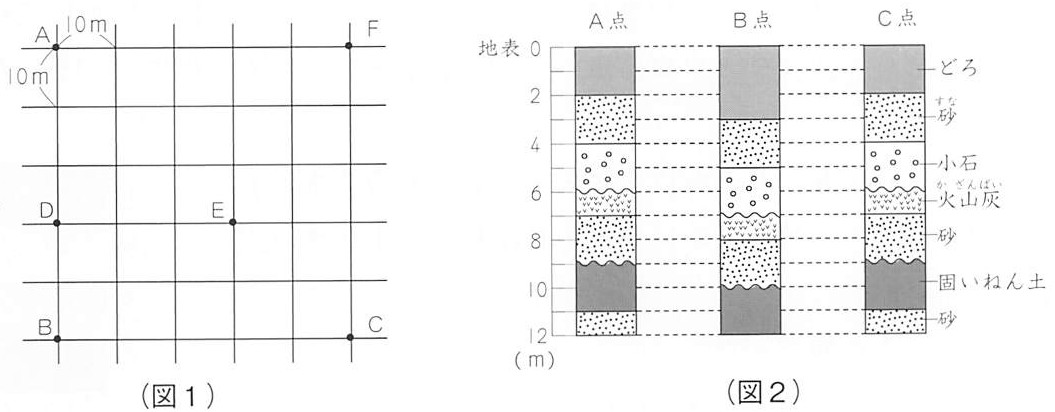
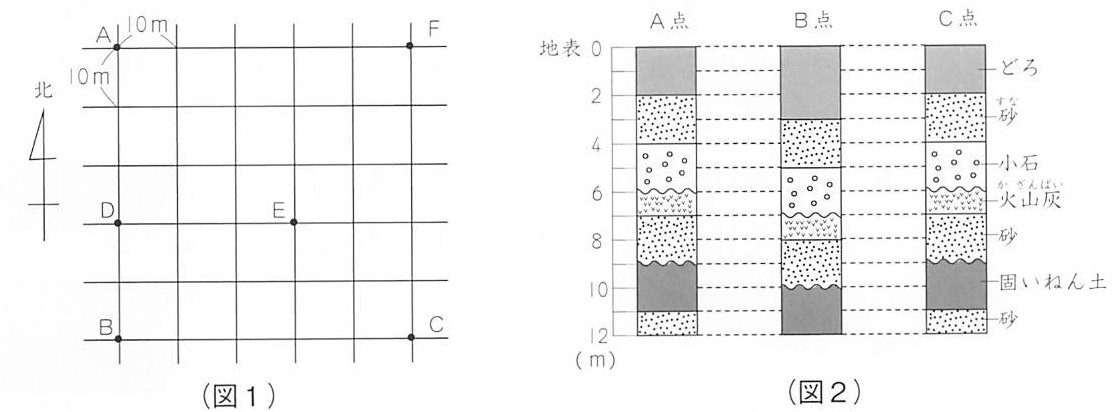
理科 第9回: 練習4の図 r9r_4 に北の向きの印を入れて切り直す
問2（地層のかたむきの向き）は方位が要るのに、最初の切り出しで（図1）の左の「北」の印が切れていた（自分の見直しで気づいた）。
左を広げて切り直した（1055x412 → 1116x412）。DAIMON_IMG_SIZES を import_daimon で取り直し、sw.js を LF にして build_sw（版 ff907938a8 → 7ddd28cff5）。

diff --git a/sw.js b/sw.js
@@ -21,9 +21,9 @@
 //   図（images/）や機内用の範囲の問題を足したら `node tools/build_sw.mjs` を回す
 //   （回し忘れは `node tools/build_sw.mjs --check` と verify_data.mjs が鳴らす）
 // ==BUILD START==
-const VERSION = "ff907938a8";
+const VERSION = "7ddd28cff5";
 const SHELL = ["index.html","data.js","daimon_data.js","manifest.webmanifest"];
-const IMAGES = {"img_01.jpg":"c509d30588","img_02.jpg":"431d673976","img_03.jpg":"20551c26c2","img_04.jpg":"babec171a8","img_05.jpg":"217a902f82","img_06.jpg":"ee339c13be","img_07.jpg":"c1d5fc9bfa","img_08.jpg":"7dc1fc69c9","img_09.jpg":"122f4085cd","img_10.jpg":"79aa27232b","img_11.jpg":"c424068b7d","img_12.jpg":"28f630ce07","img_13.jpg":"3b0f378e3c","img_14.jpg":"fa1c135386","img_15.jpg":"9c58e3530d","img_16.png":"e8243de958","img_17.png":"3c926ffcaf","img_18.png":"d12e058e34","img_19.png":"7b6ca9ce21","img_20.png":"406e674c4e","img_21.png":"0318803303","img_22.png":"6256724412","img_23.jpg":"d2b41ad9fd","img_24.jpg":"9fb82e77d5","img_25.jpg":"e331b1db97","kai1_01.jpg":"9ad30dbb41","kai1_02.jpg":"48cc954516","kai1_03.jpg":"f77c4689f9","kai1_04.jpg":"7be130efb7","kai1_05.jpg":"581087bbec","kai1_06.jpg":"605bb3fc6e","kai1_07.jpg":"443e9c5bb5","kai1_08.jpg":"f933cc3d35","kai1_09.jpg":"61d828179a","kai1_10.jpg":"aeb6fc6a25","kai1_11.jpg":"524c68147c","kai1_12.jpg":"0280a07787","kai1_13.jpg":"347749eafe","kai1_14.jpg":"4189b5e927","kai1_15.jpg":"1de589f164","kai1_17.jpg":"edb1f824fb","kai1_18.jpg":"02deb5baaf","kai1_20.jpg":"78bee7824e","kai1_21.jpg":"b72d254adb","kai1_22.jpg":"9288973c76","kai1_23.jpg":"724d436a13","kai1_24.jpg":"0280a07787","kai1_25.jpg":"8cb1eab9b2","kai1_26.jpg":"e6c693e547","kai1_27.jpg":"4351ddf4cd","kai1_28.jpg":"a94cdbe09e","kai1_29.jpg":"4ee5aed91d","kai1_30.jpg":"9f0cbd69a4","kai1_hikaku.jpg":"1d1a966776","kai2_01.jpg":"036fd88ce8","kai2_02.jpg":"0c18e7d26b","kai2_03.jpg":"18b9306794","kai2_04.jpg":"b8cee663c1","kai2_05.jpg":"9c0f05febe","kai3_01.jpg":"f0c6217e6d","kai3_02.jpg":"3afd2d1f3c","kai3_03.jpg":"5f4dcd0bee","kai3_04.jpg":"001a13ac17","kai3_05.jpg":"7d2c6c91ac","kai3_06.jpg":"c291d6c748","kai3_07.jpg":"84488aff29","kai4_01.jpg":"098f572034","kai5_01.jpg":"3916e558d3","kai5_02.jpg":"9bffc157fb","kai6_01.jpg":"21fc60dbd6","kai6_02.jpg":"99b07705de","kai6_03.jpg":"aabd3bc644","kai6_04.jpg":"aa04ce866e","kai6_05.jpg":"4297d7df87","kai6_06.jpg":"f8a264470b","kai6_07.jpg":"5d19b55330","kai6_08.jpg":"bdda62e4dd","kai6_09.jpg":"e6486ab1d9","kai7_01.jpg":"a289535a32","kai7_02.jpg":"4691df9fea","kai7_03.jpg":"3f76254c1d","kai7_04.jpg":"e497280d98","kai7_05.jpg":"96fdbde7c4","kai7_06.jpg":"c9bfae9ba3","kai7_07.jpg":"e18839816b","kai7_08.jpg":"58e8746c28","kai7_09.jpg":"e825ba55b9","kai8_01.jpg":"21a720c24f","kai8_02.jpg":"2b62307919","kai8_03.jpg":"6a964ed5d7","kai8_04.jpg":"58ec3bec61","kai8_05.jpg":"008e2ea758","kai8_06.jpg":"df368339d4","kai8_07.jpg":"eda4c5b548","kai8_08.jpg":"a6c80cc013","kai8_09.jpg":"10e896648d","kai8_11.jpg":"92b8606831","kai8_13.jpg":"c40d019dce","kai8_14.jpg":"343789076f","kaki_r1_01.jpg":"40efaae693","kaki_r1_02.jpg":"c7c281cf30","kaki_r1_03.jpg":"166ecbf482","kaki_r1_04.jpg":"2669f29305","kaki_r1_05.jpg":"039c4f2ec1","kaki_r1_06.jpg":"c7da6a228f","kaki_r1_07.jpg":"c6ec89a8a8","kaki_r1_08.jpg":"9315802c0c","kaki_r1_map01.jpg":"6c41c6b2ad","kaki_r1_map02.jpg":"ecfac38b14","kaki_r1_map03.jpg":"32bdefa779","kaki_r1_map04.jpg":"8961c1f671","kaki_r1_map05.jpg":"e933b41316","kaki_r1_map06.jpg":"8b0fce1e24","kaki_r1_map07.jpg":"36ea857422","kaki_r1_map08.jpg":"1fb4038761","kaki_r1_map09.jpg":"c8ff2fbc1f","kaki_r1_map10.jpg":"efb44b01e1","kaki_r1_map11.jpg":"11ca22ec54","kaki_r1_map12.jpg":"5cd721c8c7","kaki_r1_map13.jpg":"c6bd4907a1","kaki_r1_map14.jpg":"532a90db1a","kaki_r1_map15.jpg":"1d3a34ebcb","kaki_r2_graph01.jpg":"32d57ce772","kaki_r2_graph02.jpg":"ee3d8ef3f4","kaki_r2_graph03.jpg":"780ea73f9f","kaki_r2_graph04.jpg":"6db370ff43","kaki_r2_graph06.jpg":"4205a357b8","kaki_r2_graph07.jpg":"24abb6e920","kaki_r2_map01.jpg":"e76da5df3c","kaki_r2_map05.jpg":"77871fe1cd","kaki_r2_map07.jpg":"edde3ccd6a","kaki_r2_map08.jpg":"f6b4fd1876","kaki_r2_map09.jpg":"571c10e75a","kaki_r2_map10.jpg":"639fce96a0","kaki_r2_map11.jpg":"f797085a00","kaki_r2_map12.jpg":"e6c57da6a6","kaki_r2_map13.jpg":"a677984d27","kaki_r2_map14.jpg":"453dffc6f7","kaki_r2_map15.jpg":"5584bcee3b","kaki_r2_map16.jpg":"b15ab6d389","kaki_r2_map17.jpg":"5bd38fb762","kaki_r2_map18.jpg":"7d2d88579e","kaki_r2_map19.jpg":"275eabe7ad","kaki_r3_graph01.jpg":"1cd4a32624","kaki_r3_house01.jpg":"b24e489bb0","kaki_r3_map01.jpg":"b5df31df5b","kaki_r3_map02.jpg":"9a95515cd3","kaki_r3_map03.jpg":"8219e31218","kaki_r3_map04.jpg":"d06babe5d0","kaki_r3_map05.jpg":"8d72897ae9","kaki_r3_map06.jpg":"7d5f78fc0a","kaki_r3_map07.jpg":"054c557c2e","kaki_r3_map08.jpg":"5106a9de1f","kaki_r3_map09.jpg":"242f1d237e","kaki_r3_map10.jpg":"fdddf5a535","kaki_r3_map11.jpg":"3b8de18bbf","kaki_r3_map12.jpg":"f3bd73ae35","kaki_r3_map13.jpg":"4d2bcf3271","kaki_r3_map14.jpg":"9502878c46","kaki_r3_map15.jpg":"24ae7e39c1","kaki_r3_map16.jpg":"7702af9f69","kaki_r3_map17.jpg":"c982cc30a8","kaki_r3_map18.jpg":"42988dc4cc","kaki_r3_map19.jpg":"b15c3f5f38","kaki_r3_map20.jpg":"0973448cc4","kaki_r3_map21.jpg":"c90eb11e41","kaki_r3_map22.jpg":"f89a00c568","kaki_r3_map23.jpg":"ce5b967d9c","kaki_r3_map24.jpg":"30c90127f2","kaki_r3_map25.jpg":"f7b333f624","kaki_r3_map26.jpg":"9b79fa55d6","kaki_r3_map27.jpg":"1372731975","kaki_r3_map28.jpg":"f27a725668","kaki_r3_map29.jpg":"f2f731e618","kaki_r3_map30.jpg":"f3cf418799","kaki_r3_map31.jpg":"92342ccf13","kaki_r3_map32.jpg":"aca69cb237","kaki_r3_map33.jpg":"a067100f3f","kaki_r3_map34.jpg":"c09c0eae4c","kaki_r3_map35.jpg":"338b7b8b69","kaki_r3_map36.jpg":"50726b5665","kaki_r3_map37.jpg":"adb3ff0179","kaki_r3_shapes.jpg":"b7ef8fe7b0","kaki_r4_graph01.jpg":"c01de42527","kaki_r4_graph02.jpg":"4df4d97dbb","kaki_r4_map01.jpg":"79964d929e","kaki_r4_map02.jpg":"214032e3fb","kaki_r4_map03.jpg":"d3480426f7","kaki_r4_map04.jpg":"cd15a33476","kaki_r4_map05.jpg":"b9785a5761","kaki_r4_map06.jpg":"0de4ecf793","kaki_r4_map07.jpg":"111c204b6c","kaki_r4_map08.jpg":"a9cd2b7609","kaki_r4_map09.jpg":"53c7a9f0f6","kaki_r4_map10.jpg":"1446aba131","kaki_r4_map11.jpg":"014d34cbfb","kaki_r4_map12.jpg":"1ffc5e7cad","kaki_r4_map13.jpg":"765e7355cb","kaki_r4_map14.jpg":"14832f0c5b","kaki_r4_map15.jpg":"eb779a8f40","kaki_r4_map16.jpg":"efb2dc0c7d","kaki_r4_map17.jpg":"f5d991a0a9","kaki_r4_map18.jpg":"944dce04f2","kaki_r4_map19.jpg":"3573613dda","kaki_r4_map20.jpg":"1051878e40","kaki_r4_map21.jpg":"09de9cc945","kaki_r4_map22.jpg":"7cd6f39783","kaki_r4_map23.jpg":"54f7ae304f","kaki_r4_map24.jpg":"90e43d0b03","kaki_r4_map25.jpg":"25d2998845","kaki_r4_map26.jpg":"b410216caa","kaki_r4_map27.jpg":"01d2acc713","kaki_r4_map28.jpg":"72394df34f","kaki_r4_map29.jpg":"9e710c5386","kaki_r4_map30.jpg":"96dcc908eb","kaki_r4_map31.jpg":"b4b23e5056","kaki_r4_map32.jpg":"c6e141f588","kaki_r4_map33.jpg":"5637d59ea5","kaki_r4_map34.jpg":"da2b9a701d","kaki_r4_map35.jpg":"b38a26a1f9","kaki_r4_map36.jpg":"654a87c9ca","kaki_r4_map37.jpg":"abf9495c0e","kaki_r4_map38.jpg":"d9bfd21599","kaki_r4_map39.jpg":"adc7d0233c","kaki_r4_map40.jpg":"e48b5684b9","kaki_r4_map41.jpg":"a7c900c913","kaki_r4_shapes01.jpg":"fecd868b23","kaki_r4_shapes02.jpg":"d55b458da9","kaki_r5_graph02.jpg":"c66566f25f","kaki_r5_graph05.jpg":"9e47ade2ee","kaki_r5_map01.jpg":"c38804bbfe","kaki_r5_map02.jpg":"7eac88cd41","kaki_r5_map03.jpg":"6cb4d28531","kaki_r5_map04.jpg":"1ce12d046c","kaki_r5_map05.jpg":"ed7badf0e7","kaki_r5_map06.jpg":"cb26648bb7","kaki_r5_map07.jpg":"71e0a7471a","kaki_r5_map08.jpg":"cb201dc1ad","kaki_r5_map09.jpg":"5492cacbbd","kaki_r5_map10.jpg":"55d2435544","kaki_r5_map11.jpg":"343f6ce76d","kaki_r5_map12.jpg":"b74276a461","kaki_r5_map13.jpg":"d662f67d0a","kaki_r5_map14.jpg":"9c25e54a2c","kaki_r5_map15.jpg":"4376961dbe","kaki_r5_map16.jpg":"a398327f58","kaki_r5_map17.jpg":"8f1e23de6f","kaki_r5_map18.jpg":"d063497018","kaki_r5_map19.jpg":"9e149162e9","kaki_r5_map20.jpg":"2c88d5bd5a","kaki_r5_map21.jpg":"1a580e7a32","kaki_r5_map22.jpg":"398b418584","kaki_r5_map23.jpg":"4d62801b55","kaki_r5_map24.jpg":"fe4a91e391","kaki_r5_map25.jpg":"2b1faef03a","kaki_r5_map26.jpg":"caa8517e16","kaki_r5_map27.jpg":"3fc1dacd7c","kaki_r5_map28.jpg":"5b003a47a1","kaki_r5_map29.jpg":"4c177786d9","kaki_r5_map30.jpg":"8771a4c770","kaki_r5_map31.jpg":"8b3232b824","kaki_r5_map32.jpg":"3edcd448a1","kaki_r5_shapes02.jpg":"5df2c79f77","kaki_r5_shapes03.jpg":"aac1488fcf","kaki_r5_table01.jpg":"19533bd2f2","kaki_r5_table02.jpg":"d8019480f5","kaki_r6_graph01.jpg":"96bb4577a7","kaki_r6_map01.jpg":"d9934df143","kaki_r6_map02.jpg":"fe5bd5dbbe","kaki_r6_map03.jpg":"e1e31c6154","kaki_r6_map04.jpg":"b66fa8a761","kaki_r6_map05.jpg":"e32e50186e","kaki_r6_map06.jpg":"edd75b804c","kaki_r6_map07.jpg":"b77ba31786","kaki_r6_map08.jpg":"36b54ed3c8","kaki_r6_map09.jpg":"6f08ed9b1a","kaki_r6_map10.jpg":"5dcc7b61af","kaki_r6_map11.jpg":"8930f6ed5a","kaki_r6_map12.jpg":"b9a01555a7","kaki_r6_map13.jpg":"ae954fc0d3","kaki_r6_map14.jpg":"c3d0ada944","kaki_r6_map15.jpg":"33c3dd2588","kaki_r6_map16.jpg":"f143bac952","kaki_r6_map17.jpg":"8e4028b2f9","kaki_r6_map18.jpg":"e27c8cc933","kaki_r6_map19.jpg":"9675f32dd9","kaki_r6_map20.jpg":"73a10cd200","kaki_r6_map21.jpg":"d4424ac8cf","kaki_r6_map22.jpg":"2274caa4a2","kaki_r6_map23.jpg":"129b3c20cf","kaki_r6_map24.jpg":"334ddece52","kaki_r6_map25.jpg":"6c84324de8","kaki_r6_map26.jpg":"4f02b0d10a","kaki_r6_map27.jpg":"5435b9a073","kaki_r6_map28.jpg":"4f420842a2","kaki_r6_map29.jpg":"43c72ca771","kaki_r6_map30.jpg":"ba92be3494","kaki_r6_map31.jpg":"5fb2f51387","kaki_r6_map32.jpg":"50a9be50e2","kaki_r6_map33.jpg":"ee52bc0e68","kaki_r6_map34.jpg":"c306aca085","kaki_r6_map35.jpg":"82ba643838","kaki_r6_map36.jpg":"f0b2024222","kaki_r6_map37.jpg":"578787fb55","kaki_r6_map38.jpg":"a867948ec2","kaki_r6_map39.jpg":"36ddd230df","kaki_r6_map40.jpg":"b451ce2553","kaki_r6_map41.jpg":"e945ff9e3b","kaki_r6_map42.jpg":"6ead747b59","kaki_r6_map43.jpg":"0c4fa9452c","kaki_r6_map44.jpg":"b6ba24cf61","kaki_r6_map45.jpg":"60c76ded4f","kaki_r6_map46.jpg":"c997423a88","kaki_r6_map47.jpg":"03668f2ff1","kaki_r6_map48.jpg":"b976807139","kaki_r6_map49.jpg":"3bede7dac8","kaki_r6_table01.jpg":"a8958813c8","kaki_r7_graph02.jpg":"1f62812a09","kaki_r7_map01.jpg":"99e641197f","kaki_r7_map02.jpg":"9bf3a0d803","kaki_r7_map03.jpg":"f797eda8eb","kaki_r7_map04.jpg":"decaa1c29a","kaki_r7_map05.jpg":"8c65db6a92","kaki_r7_map06.jpg":"ac9efa31ab","kaki_r7_map07.jpg":"8c1d72ca7c","kaki_r7_map08.jpg":"433be63b7b","kaki_r7_map09.jpg":"54db8c57e6","kaki_r7_map10.jpg":"71c659ba69","kaki_r7_map11.jpg":"b21192fde1","kaki_r7_map12.jpg":"73c261b366","kaki_r7_map13.jpg":"65f35e8544","kaki_r7_map14.jpg":"7177100d76","kaki_r7_map15.jpg":"133fd7c751","kaki_r7_map16.jpg":"3eb4b1ab57","kaki_r7_map17.jpg":"c7e46c62c8","kaki_r7_map18.jpg":"595fa5f1d3","kaki_r7_map19.jpg":"49e0ea66d2","kaki_r7_map20.jpg":"030f5b32b7","kaki_r7_map21.jpg":"05808524f1","kaki_r7_map22.jpg":"bd20c38480","kaki_r7_map23.jpg":"ce6fc43df4","kaki_r7_map24.jpg":"b2753580e2","kaki_r7_map25.jpg":"78bd7107e6","kaki_r7_map26.jpg":"34d4f7151a","kaki_r7_map27.jpg":"b21d7f5dd5","kaki_r7_map28.jpg":"476473eec3","kaki_r7_map29.jpg":"97c7ee7f61","kaki_r7_map30.jpg":"e0005dcc88","kaki_r7_map31.jpg":"204f2de615","kaki_r7_map32.jpg":"f006ba7103","kaki_r7_map33.jpg":"da58f9cff4","kaki_r7_map34.jpg":"1f584b7d6a","kaki_r7_map35.jpg":"11e1004bd8","kaki_r7_map36.jpg":"fd137ff9b8","kaki_r7_table01.jpg":"531ede38c5","kaki_r7_table02.jpg":"0e77123fca","kaki_r8_map01.jpg":"a57f501a98","kaki_r8_map02.jpg":"b06073e9aa","kaki_r8_map03.jpg":"5c8daedeab","kaki_r8_map04.jpg":"10a7bdd03d","kaki_r8_map05.jpg":"4fb5437d44","kaki_r8_map06.jpg":"76a72a9043","kaki_r8_map07.jpg":"77cc3b1bbc","kaki_r8_map08.jpg":"5c8d0a406b","kaki_r8_map09.jpg":"4ab8d8bf9c","kaki_r8_map10.jpg":"005ce58bdc","kaki_r8_map11.jpg":"8c83802060","kaki_r8_map12.jpg":"a5781f5932","kaki_r8_map13.jpg":"f3dcb0128c","kaki_r8_map14.jpg":"40a712cf1f","kaki_r8_map15.jpg":"79a9d6288f","kaki_r8_map16.jpg":"104361951c","kaki_r8_map17.jpg":"e43f6d31b7","kaki_r8_map18.jpg":"c67dd6cb83","kaki_r8_map19.jpg":"48159eea09","kaki_r8_map20.jpg":"023d3f8a9d","kaki_r8_map21.jpg":"03f3be5685","kaki_r8_map22.jpg":"77fe732dea","kaki_r8_map23.jpg":"e005abbe6c","kaki_r8_map24.jpg":"b25880e6c5","kaki_r8_map25.jpg":"7e313cd421","kaki_r8_map26.jpg":"def354dfdd","kaki_r8_map27.jpg":"449858def5","kaki_r8_map28.jpg":"bb9f08441a","kaki_r8_map29.jpg":"472c09aa53","kaki_r8_map30.jpg":"35be560792","kaki_r8_map31.jpg":"6cbd996f24","kaki_r8_map32.jpg":"60af73c7f5","kaki_r8_map33.jpg":"b194bc8ead","kaki_r8_map34.jpg":"cbc7c209db","kaki_r8_map35.jpg":"1de93906c5","kaki_r8_map36.jpg":"6ba8cf6d3b","kaki_r8_map37.jpg":"07aeb406af","kaki_r8_map38.jpg":"bee7eebc38","kaki_r8_map39.jpg":"45f22df6b1","kaki_r8_map40.jpg":"9e3f4196d2","kaki_r8_map41.jpg":"f1ce465720","kaki_r8_map42.jpg":"0551ccd81c","kaki_r8_map43.jpg":"82000f70d1","kaki_r8_map44.jpg":"2b88f0190b","kaki_r8_map45.jpg":"35ee95a764","kaki_r8_map46.jpg":"dd721e219c","kaki_r8_map47.jpg":"a465f218c2","kaki_r8_map48.jpg":"dcdc8a4d37","kaki_r8_map49.jpg":"388b475050","kaki_r8_map50.jpg":"4153c12b69","kaki_r8_map51.jpg":"aa826973da","kaki_r8_map52.jpg":"40fa851678","kaki_r8_map53.jpg":"181212ead1","kaki_r8_map54.jpg":"7c5a4a90c3","kaki_r8_map55.jpg":"488f98a461","kaki_r8_map56.jpg":"95df737037","kaki_r8_map57.jpg":"92d00cfd17","kaki_r8_map58.jpg":"6e49210e3e","r1_01.jpg":"4a6380da93","r1_02.jpg":"da23c3400c","r1_03.jpg":"7eddc7aa20","r1_04.jpg":"dbd948bc4f","r1_05.jpg":"435f86d82f","r1_06.jpg":"f09fdec1b9","r1_shinrin.jpg":"a750740d7f","r2_01.jpg":"3b40218424","r2_02.jpg":"387da36abc","r2_03.jpg":"e1febb3ca4","r2_04.jpg":"95132e77ec","r2_05.jpg":"0b08a836a5","r2_06.jpg":"0213ccc6d0","r2_07.jpg":"87baf0940a","r2_08.jpg":"07e455253d","r2_09.jpg":"42792edd75","r2_10.jpg":"42792edd75","r2_11.jpg":"42792edd75","r2_12.jpg":"4f2c45c956","r2_13.jpg":"4f2c45c956","r2_14.jpg":"4f2c45c956","r2_15.jpg":"52e855ee49","r2_16.jpg":"52e855ee49","r2_17.jpg":"52e855ee49","r2_18.jpg":"440bf4b31f","r2_19.jpg":"440bf4b31f","r2_20.jpg":"535707c4eb","r2_21.jpg":"535707c4eb","r2_22.jpg":"535707c4eb","r2_23.jpg":"535707c4eb","r2_24.jpg":"535707c4eb","r2_25.jpg":"535707c4eb","r2_26.jpg":"2dc94c771d","r2_27.jpg":"2dc94c771d","r2_28.jpg":"2dc94c771d","r2_29.jpg":"2dc94c771d","r2_30.jpg":"a6433ef6c0","r2_31.jpg":"a6433ef6c0","r2_32.jpg":"a6433ef6c0","r2_33.jpg":"a6433ef6c0","r2_34.jpg":"8d16d4ac64","r2_35.jpg":"8d16d4ac64","r2_36.jpg":"8d16d4ac64","r2_37.jpg":"8d16d4ac64","r2_38.jpg":"91f1c5bca5","r2_39.jpg":"b60adbd1c3","r2_40.jpg":"c82ed30fab","r3_chuuwa.jpg":"803f88484e","r3_seishitsu.jpg":"6584946c1b","r3_shijiyaku.jpg":"9b319c7d88","r3_yomi21.jpg":"b2ad009491","r3_yomi24.jpg":"d6fc3d99b8","r3_yomi25.jpg":"aa0903b0ab","r3_yomi27.jpg":"8dc3d4a3a9","r3_yomi36.jpg":"595c040e9f","r3k_1a.jpg":"55441f3d9f","r3k_1b.jpg":"1356de67e3","r3k_2.jpg":"3105353be2","r3k_3.jpg":"4f041ffa22","r3r_3.jpg":"10cadd705b","r3w_2.jpg":"282e87ba1b","r3w_3.jpg":"b2770557c1","r3y_5ans.jpg":"e4645e89b4","r4_01.jpg":"393de5eca5","r4_02.jpg":"40d9b4e0f2","r4_03.jpg":"5b2d21540e","r4_04.jpg":"947f21bcb2","r4k_1.jpg":"90d74e5d01","r4k_2.jpg":"cc3c2e4caa","r4r_1.jpg":"4798d0b4ce","r4r_2.jpg":"7f98882f2f","r4r_3.jpg":"583c14ef86","r4r_4.jpg":"d02ddf1cd0","r4w_1a.jpg":"b6bf2c20dd","r4w_1b.jpg":"64b2ae8256","r4w_2.jpg":"ba6aa9c69c","r4w_3.jpg":"b838901256","r5u13_01.jpg":"8a69c689ae","r5u13_02.jpg":"e52d50ee0d","r5u13_03.jpg":"8b6aae14a3","r5u13_04.jpg":"c0812ddc66","r5u13_05.jpg":"a2ffcc22da","r5u13_06.jpg":"41b8282bc6","r5u13_07.jpg":"a42085c269","r5u13_08.jpg":"7ff9dfa5c5","r6_01.jpg":"32ff3016d8","r6_02.jpg":"3c73527dd8","r6_03.jpg":"a444385107","r6_04.jpg":"a4dfdac612","r6_05.jpg":"b5f6b9f6a3","r6_06.jpg":"1a7c249e0f","r6_07.jpg":"389ba3d7b8","r6_08.jpg":"54e693e4b7","r6_09.jpg":"b02381d63b","r6_10.jpg":"da46bca31a","r6_11.jpg":"9259db1350","r6_12.jpg":"14c449020d","r6_13.jpg":"0577c1be67","r6_14.jpg":"79530fa540","r6_15.jpg":"dcf990eb89","r6_16.jpg":"d5a37d0bce","r6_17.jpg":"cbeac19169","r6k_1.jpg":"0c5793f6c1","r6k_2.jpg":"7cc5f04102","r6k_2b.jpg":"19f68c1767","r6k_3.jpg":"6b57f40878","r6k_4.jpg":"6eba853e20","r6p_01.jpg":"e16dfbac90","r6p_02.jpg":"9a335bea93","r6p_03.jpg":"9ed60c3d70","r6p_04.jpg":"ae5944a085","r6p_05.jpg":"b6a1836a78","r6p_06.jpg":"acb7478bd6","r6p_07.jpg":"a4c8c8dd0d","r6r_1.jpg":"4606457fc7","r6r_1b.jpg":"dafd16e516","r6r_2.jpg":"73bd9e9cc4","r6r_2b.jpg":"ce235b797a","r6r_2c.jpg":"3638d4d780","r6r_3.jpg":"8bc4c35ba9","r6r_3ans.jpg":"c729ca8dc1","r6r_4.jpg":"1a97fe9f9a","r6r_4b.jpg":"e1f0d07003","r6r_4c.jpg":"606d8620bb","r6r_5.jpg":"83747b014d","r7_01.jpg":"466ea22251","r7_02.jpg":"84ef6e008b","r7_03.jpg":"3583685d2a","r7_04.jpg":"a49dfe47bb","r7_05.jpg":"8357813f22","r7_06.jpg":"1e30160b9f","r7_07.jpg":"fec15a5ddd","r7_08.jpg":"5f8a1be38a","r7_10.jpg":"01bd20bac0","r7k_2.jpg":"c3e5b1fdc4","r7k_2b.jpg":"b4937893d8","r7k_3.jpg":"dfb199cdc1","r7k_4.jpg":"46545faf0d","r7r_1.jpg":"6de7fd0a8e","r7r_1b.jpg":"ed991d90d3","r7r_1c.jpg":"235b1d340f","r7r_2.jpg":"807cc07178","r7r_3.jpg":"9541daa1d1","r7r_5c.jpg":"bad6e5885d","r7y_1.jpg":"c647deffec","r8_05.jpg":"997a3b7635","r8_06.jpg":"b56d871128","r8_07.jpg":"5bb801877e","r8_10.jpg":"ac484d0958","r8_11.jpg":"174c916ad6","r8_12.jpg":"3e8313d3ab","r8_13.jpg":"f2f5f12b44","r8_14.jpg":"de0761c890","r8_15.jpg":"955040e2d6","r8_16.jpg":"17e5a0bb41","r8_17.jpg":"fe5825e0da","r8_18.jpg":"5ad51c980d","r8k_1.jpg":"a7e3225a1e","r8k_2.jpg":"2d8935c26a","r8k_3.jpg":"fea0c57403","r8k_4.jpg":"101c437443","r8r_1.jpg":"781eb27ca1","r8r_1b.jpg":"b123b7d86d","r8r_1c.jpg":"eb02922d34","r8r_2.jpg":"eb632645d4","r8r_2c.jpg":"d7e9c8d38d","r8r_3.jpg":"fb200207c9","r8r_4.jpg":"cf5f75eccf","r8r_5.jpg":"4876ee8eeb","r8r_5b.jpg":"7799e66960","r8r_5c.jpg":"6bd6e2bad1","r8y_1.jpg":"5a55076e7d","r8y_2.jpg":"ef35951bec","r8y_3.jpg":"b95a28fa6d","r9_01.jpg":"ef3eeb19d5","r9_02.jpg":"75ffd6c347","r9_03.jpg":"e6ae1b2a1c","r9_04.jpg":"ae3ca3e752","r9_05.jpg":"d037fd4536","r9_06.jpg":"4837b59107","r9_07.jpg":"3b27c8bb15","r9_08.jpg":"d8f45dbe17","r9_09.jpg":"597d1b0423","r9d_01.jpg":"db4cc4c881","r9k_1.jpg":"560bbb6301","r9k_1b.jpg":"62cbe10e38","r9k_2.jpg":"b7467838ca","r9k_3.jpg":"8716d534ac","r9r_1.jpg":"6856a4e449","r9r_1b.jpg":"5cebd6dd8f","r9r_3.jpg":"f199288e40","r9r_4.jpg":"829956bccf","r9r_4b.jpg":"68486a883e","r9r_5.jpg":"e5553f71d3","組分け6_1_地図.png":"ec7b795c88","組分け6_1_絵.png":"56dddd3c07","組分け6_3_地図.png":"6488459456","組分け6_3_模式図.png":"5b845a6430"};
+const IMAGES = {"img_01.jpg":"c509d30588","img_02.jpg":"431d673976","img_03.jpg":"20551c26c2","img_04.jpg":"babec171a8","img_05.jpg":"217a902f82","img_06.jpg":"ee339c13be","img_07.jpg":"c1d5fc9bfa","img_08.jpg":"7dc1fc69c9","img_09.jpg":"122f4085cd","img_10.jpg":"79aa27232b","img_11.jpg":"c424068b7d","img_12.jpg":"28f630ce07","img_13.jpg":"3b0f378e3c","img_14.jpg":"fa1c135386","img_15.jpg":"9c58e3530d","img_16.png":"e8243de958","img_17.png":"3c926ffcaf","img_18.png":"d12e058e34","img_19.png":"7b6ca9ce21","img_20.png":"406e674c4e","img_21.png":"0318803303","img_22.png":"6256724412","img_23.jpg":"d2b41ad9fd","img_24.jpg":"9fb82e77d5","img_25.jpg":"e331b1db97","kai1_01.jpg":"9ad30dbb41","kai1_02.jpg":"48cc954516","kai1_03.jpg":"f77c4689f9","kai1_04.jpg":"7be130efb7","kai1_05.jpg":"581087bbec","kai1_06.jpg":"605bb3fc6e","kai1_07.jpg":"443e9c5bb5","kai1_08.jpg":"f933cc3d35","kai1_09.jpg":"61d828179a","kai1_10.jpg":"aeb6fc6a25","kai1_11.jpg":"524c68147c","kai1_12.jpg":"0280a07787","kai1_13.jpg":"347749eafe","kai1_14.jpg":"4189b5e927","kai1_15.jpg":"1de589f164","kai1_17.jpg":"edb1f824fb","kai1_18.jpg":"02deb5baaf","kai1_20.jpg":"78bee7824e","kai1_21.jpg":"b72d254adb","kai1_22.jpg":"9288973c76","kai1_23.jpg":"724d436a13","kai1_24.jpg":"0280a07787","kai1_25.jpg":"8cb1eab9b2","kai1_26.jpg":"e6c693e547","kai1_27.jpg":"4351ddf4cd","kai1_28.jpg":"a94cdbe09e","kai1_29.jpg":"4ee5aed91d","kai1_30.jpg":"9f0cbd69a4","kai1_hikaku.jpg":"1d1a966776","kai2_01.jpg":"036fd88ce8","kai2_02.jpg":"0c18e7d26b","kai2_03.jpg":"18b9306794","kai2_04.jpg":"b8cee663c1","kai2_05.jpg":"9c0f05febe","kai3_01.jpg":"f0c6217e6d","kai3_02.jpg":"3afd2d1f3c","kai3_03.jpg":"5f4dcd0bee","kai3_04.jpg":"001a13ac17","kai3_05.jpg":"7d2c6c91ac","kai3_06.jpg":"c291d6c748","kai3_07.jpg":"84488aff29","kai4_01.jpg":"098f572034","kai5_01.jpg":"3916e558d3","kai5_02.jpg":"9bffc157fb","kai6_01.jpg":"21fc60dbd6","kai6_02.jpg":"99b07705de","kai6_03.jpg":"aabd3bc644","kai6_04.jpg":"aa04ce866e","kai6_05.jpg":"4297d7df87","kai6_06.jpg":"f8a264470b","kai6_07.jpg":"5d19b55330","kai6_08.jpg":"bdda62e4dd","kai6_09.jpg":"e6486ab1d9","kai7_01.jpg":"a289535a32","kai7_02.jpg":"4691df9fea","kai7_03.jpg":"3f76254c1d","kai7_04.jpg":"e497280d98","kai7_05.jpg":"96fdbde7c4","kai7_06.jpg":"c9bfae9ba3","kai7_07.jpg":"e18839816b","kai7_08.jpg":"58e8746c28","kai7_09.jpg":"e825ba55b9","kai8_01.jpg":"21a720c24f","kai8_02.jpg":"2b62307919","kai8_03.jpg":"6a964ed5d7","kai8_04.jpg":"58ec3bec61","kai8_05.jpg":"008e2ea758","kai8_06.jpg":"df368339d4","kai8_07.jpg":"eda4c5b548","kai8_08.jpg":"a6c80cc013","kai8_09.jpg":"10e896648d","kai8_11.jpg":"92b8606831","kai8_13.jpg":"c40d019dce","kai8_14.jpg":"343789076f","kaki_r1_01.jpg":"40efaae693","kaki_r1_02.jpg":"c7c281cf30","kaki_r1_03.jpg":"166ecbf482","kaki_r1_04.jpg":"2669f29305","kaki_r1_05.jpg":"039c4f2ec1","kaki_r1_06.jpg":"c7da6a228f","kaki_r1_07.jpg":"c6ec89a8a8","kaki_r1_08.jpg":"9315802c0c","kaki_r1_map01.jpg":"6c41c6b2ad","kaki_r1_map02.jpg":"ecfac38b14","kaki_r1_map03.jpg":"32bdefa779","kaki_r1_map04.jpg":"8961c1f671","kaki_r1_map05.jpg":"e933b41316","kaki_r1_map06.jpg":"8b0fce1e24","kaki_r1_map07.jpg":"36ea857422","kaki_r1_map08.jpg":"1fb4038761","kaki_r1_map09.jpg":"c8ff2fbc1f","kaki_r1_map10.jpg":"efb44b01e1","kaki_r1_map11.jpg":"11ca22ec54","kaki_r1_map12.jpg":"5cd721c8c7","kaki_r1_map13.jpg":"c6bd4907a1","kaki_r1_map14.jpg":"532a90db1a","kaki_r1_map15.jpg":"1d3a34ebcb","kaki_r2_graph01.jpg":"32d57ce772","kaki_r2_graph02.jpg":"ee3d8ef3f4","kaki_r2_graph03.jpg":"780ea73f9f","kaki_r2_graph04.jpg":"6db370ff43","kaki_r2_graph06.jpg":"4205a357b8","kaki_r2_graph07.jpg":"24abb6e920","kaki_r2_map01.jpg":"e76da5df3c","kaki_r2_map05.jpg":"77871fe1cd","kaki_r2_map07.jpg":"edde3ccd6a","kaki_r2_map08.jpg":"f6b4fd1876","kaki_r2_map09.jpg":"571c10e75a","kaki_r2_map10.jpg":"639fce96a0","kaki_r2_map11.jpg":"f797085a00","kaki_r2_map12.jpg":"e6c57da6a6","kaki_r2_map13.jpg":"a677984d27","kaki_r2_map14.jpg":"453dffc6f7","kaki_r2_map15.jpg":"5584bcee3b","kaki_r2_map16.jpg":"b15ab6d389","kaki_r2_map17.jpg":"5bd38fb762","kaki_r2_map18.jpg":"7d2d88579e","kaki_r2_map19.jpg":"275eabe7ad","kaki_r3_graph01.jpg":"1cd4a32624","kaki_r3_house01.jpg":"b24e489bb0","kaki_r3_map01.jpg":"b5df31df5b","kaki_r3_map02.jpg":"9a95515cd3","kaki_r3_map03.jpg":"8219e31218","kaki_r3_map04.jpg":"d06babe5d0","kaki_r3_map05.jpg":"8d72897ae9","kaki_r3_map06.jpg":"7d5f78fc0a","kaki_r3_map07.jpg":"054c557c2e","kaki_r3_map08.jpg":"5106a9de1f","kaki_r3_map09.jpg":"242f1d237e","kaki_r3_map10.jpg":"fdddf5a535","kaki_r3_map11.jpg":"3b8de18bbf","kaki_r3_map12.jpg":"f3bd73ae35","kaki_r3_map13.jpg":"4d2bcf3271","kaki_r3_map14.jpg":"9502878c46","kaki_r3_map15.jpg":"24ae7e39c1","kaki_r3_map16.jpg":"7702af9f69","kaki_r3_map17.jpg":"c982cc30a8","kaki_r3_map18.jpg":"42988dc4cc","kaki_r3_map19.jpg":"b15c3f5f38","kaki_r3_map20.jpg":"0973448cc4","kaki_r3_map21.jpg":"c90eb11e41","kaki_r3_map22.jpg":"f89a00c568","kaki_r3_map23.jpg":"ce5b967d9c","kaki_r3_map24.jpg":"30c90127f2","kaki_r3_map25.jpg":"f7b333f624","kaki_r3_map26.jpg":"9b79fa55d6","kaki_r3_map27.jpg":"1372731975","kaki_r3_map28.jpg":"f27a725668","kaki_r3_map29.jpg":"f2f731e618","kaki_r3_map30.jpg":"f3cf418799","kaki_r3_map31.jpg":"92342ccf13","kaki_r3_map32.jpg":"aca69cb237","kaki_r3_map33.jpg":"a067100f3f","kaki_r3_map34.jpg":"c09c0eae4c","kaki_r3_map35.jpg":"338b7b8b69","kaki_r3_map36.jpg":"50726b5665","kaki_r3_map37.jpg":"adb3ff0179","kaki_r3_shapes.jpg":"b7ef8fe7b0","kaki_r4_graph01.jpg":"c01de42527","kaki_r4_graph02.jpg":"4df4d97dbb","kaki_r4_map01.jpg":"79964d929e","kaki_r4_map02.jpg":"214032e3fb","kaki_r4_map03.jpg":"d3480426f7","kaki_r4_map04.jpg":"cd15a33476","kaki_r4_map05.jpg":"b9785a5761","kaki_r4_map06.jpg":"0de4ecf793","kaki_r4_map07.jpg":"111c204b6c","kaki_r4_map08.jpg":"a9cd2b7609","kaki_r4_map09.jpg":"53c7a9f0f6","kaki_r4_map10.jpg":"1446aba131","kaki_r4_map11.jpg":"014d34cbfb","kaki_r4_map12.jpg":"1ffc5e7cad","kaki_r4_map13.jpg":"765e7355cb","kaki_r4_map14.jpg":"14832f0c5b","kaki_r4_map15.jpg":"eb779a8f40","kaki_r4_map16.jpg":"efb2dc0c7d","kaki_r4_map17.jpg":"f5d991a0a9","kaki_r4_map18.jpg":"944dce04f2","kaki_r4_map19.jpg":"3573613dda","kaki_r4_map20.jpg":"1051878e40","kaki_r4_map21.jpg":"09de9cc945","kaki_r4_map22.jpg":"7cd6f39783","kaki_r4_map23.jpg":"54f7ae304f","kaki_r4_map24.jpg":"90e43d0b03","kaki_r4_map25.jpg":"25d2998845","kaki_r4_map26.jpg":"b410216caa","kaki_r4_map27.jpg":"01d2acc713","kaki_r4_map28.jpg":"72394df34f","kaki_r4_map29.jpg":"9e710c5386","kaki_r4_map30.jpg":"96dcc908eb","kaki_r4_map31.jpg":"b4b23e5056","kaki_r4_map32.jpg":"c6e141f588","kaki_r4_map33.jpg":"5637d59ea5","kaki_r4_map34.jpg":"da2b9a701d","kaki_r4_map35.jpg":"b38a26a1f9","kaki_r4_map36.jpg":"654a87c9ca","kaki_r4_map37.jpg":"abf9495c0e","kaki_r4_map38.jpg":"d9bfd21599","kaki_r4_map39.jpg":"adc7d0233c","kaki_r4_map40.jpg":"e48b5684b9","kaki_r4_map41.jpg":"a7c900c913","kaki_r4_shapes01.jpg":"fecd868b23","kaki_r4_shapes02.jpg":"d55b458da9","kaki_r5_graph02.jpg":"c66566f25f","kaki_r5_graph05.jpg":"9e47ade2ee","kaki_r5_map01.jpg":"c38804bbfe","kaki_r5_map02.jpg":"7eac88cd41","kaki_r5_map03.jpg":"6cb4d28531","kaki_r5_map04.jpg":"1ce12d046c","kaki_r5_map05.jpg":"ed7badf0e7","kaki_r5_map06.jpg":"cb26648bb7","kaki_r5_map07.jpg":"71e0a7471a","kaki_r5_map08.jpg":"cb201dc1ad","kaki_r5_map09.jpg":"5492cacbbd","kaki_r5_map10.jpg":"55d2435544","kaki_r5_map11.jpg":"343f6ce76d","kaki_r5_map12.jpg":"b74276a461","kaki_r5_map13.jpg":"d662f67d0a","kaki_r5_map14.jpg":"9c25e54a2c","kaki_r5_map15.jpg":"4376961dbe","kaki_r5_map16.jpg":"a398327f58","kaki_r5_map17.jpg":"8f1e23de6f","kaki_r5_map18.jpg":"d063497018","kaki_r5_map19.jpg":"9e149162e9","kaki_r5_map20.jpg":"2c88d5bd5a","kaki_r5_map21.jpg":"1a580e7a32","kaki_r5_map22.jpg":"398b418584","kaki_r5_map23.jpg":"4d62801b55","kaki_r5_map24.jpg":"fe4a91e391","kaki_r5_map25.jpg":"2b1faef03a","kaki_r5_map26.jpg":"caa8517e16","kaki_r5_map27.jpg":"3fc1dacd7c","kaki_r5_map28.jpg":"5b003a47a1","kaki_r5_map29.jpg":"4c177786d9","kaki_r5_map30.jpg":"8771a4c770","kaki_r5_map31.jpg":"8b3232b824","kaki_r5_map32.jpg":"3edcd448a1","kaki_r5_shapes02.jpg":"5df2c79f77","kaki_r5_shapes03.jpg":"aac1488fcf","kaki_r5_table01.jpg":"19533bd2f2","kaki_r5_table02.jpg":"d8019480f5","kaki_r6_graph01.jpg":"96bb4577a7","kaki_r6_map01.jpg":"d9934df143","kaki_r6_map02.jpg":"fe5bd5dbbe","kaki_r6_map03.jpg":"e1e31c6154","kaki_r6_map04.jpg":"b66fa8a761","kaki_r6_map05.jpg":"e32e50186e","kaki_r6_map06.jpg":"edd75b804c","kaki_r6_map07.jpg":"b77ba31786","kaki_r6_map08.jpg":"36b54ed3c8","kaki_r6_map09.jpg":"6f08ed9b1a","kaki_r6_map10.jpg":"5dcc7b61af","kaki_r6_map11.jpg":"8930f6ed5a","kaki_r6_map12.jpg":"b9a01555a7","kaki_r6_map13.jpg":"ae954fc0d3","kaki_r6_map14.jpg":"c3d0ada944","kaki_r6_map15.jpg":"33c3dd2588","kaki_r6_map16.jpg":"f143bac952","kaki_r6_map17.jpg":"8e4028b2f9","kaki_r6_map18.jpg":"e27c8cc933","kaki_r6_map19.jpg":"9675f32dd9","kaki_r6_map20.jpg":"73a10cd200","kaki_r6_map21.jpg":"d4424ac8cf","kaki_r6_map22.jpg":"2274caa4a2","kaki_r6_map23.jpg":"129b3c20cf","kaki_r6_map24.jpg":"334ddece52","kaki_r6_map25.jpg":"6c84324de8","kaki_r6_map26.jpg":"4f02b0d10a","kaki_r6_map27.jpg":"5435b9a073","kaki_r6_map28.jpg":"4f420842a2","kaki_r6_map29.jpg":"43c72ca771","kaki_r6_map30.jpg":"ba92be3494","kaki_r6_map31.jpg":"5fb2f51387","kaki_r6_map32.jpg":"50a9be50e2","kaki_r6_map33.jpg":"ee52bc0e68","kaki_r6_map34.jpg":"c306aca085","kaki_r6_map35.jpg":"82ba643838","kaki_r6_map36.jpg":"f0b2024222","kaki_r6_map37.jpg":"578787fb55","kaki_r6_map38.jpg":"a867948ec2","kaki_r6_map39.jpg":"36ddd230df","kaki_r6_map40.jpg":"b451ce2553","kaki_r6_map41.jpg":"e945ff9e3b","kaki_r6_map42.jpg":"6ead747b59","kaki_r6_map43.jpg":"0c4fa9452c","kaki_r6_map44.jpg":"b6ba24cf61","kaki_r6_map45.jpg":"60c76ded4f","kaki_r6_map46.jpg":"c997423a88","kaki_r6_map47.jpg":"03668f2ff1","kaki_r6_map48.jpg":"b976807139","kaki_r6_map49.jpg":"3bede7dac8","kaki_r6_table01.jpg":"a8958813c8","kaki_r7_graph02.jpg":"1f62812a09","kaki_r7_map01.jpg":"99e641197f","kaki_r7_map02.jpg":"9bf3a0d803","kaki_r7_map03.jpg":"f797eda8eb","kaki_r7_map04.jpg":"decaa1c29a","kaki_r7_map05.jpg":"8c65db6a92","kaki_r7_map06.jpg":"ac9efa31ab","kaki_r7_map07.jpg":"8c1d72ca7c","kaki_r7_map08.jpg":"433be63b7b","kaki_r7_map09.jpg":"54db8c57e6","kaki_r7_map10.jpg":"71c659ba69","kaki_r7_map11.jpg":"b21192fde1","kaki_r7_map12.jpg":"73c261b366","kaki_r7_map13.jpg":"65f35e8544","kaki_r7_map14.jpg":"7177100d76","kaki_r7_map15.jpg":"133fd7c751","kaki_r7_map16.jpg":"3eb4b1ab57","kaki_r7_map17.jpg":"c7e46c62c8","kaki_r7_map18.jpg":"595fa5f1d3","kaki_r7_map19.jpg":"49e0ea66d2","kaki_r7_map20.jpg":"030f5b32b7","kaki_r7_map21.jpg":"05808524f1","kaki_r7_map22.jpg":"bd20c38480","kaki_r7_map23.jpg":"ce6fc43df4","kaki_r7_map24.jpg":"b2753580e2","kaki_r7_map25.jpg":"78bd7107e6","kaki_r7_map26.jpg":"34d4f7151a","kaki_r7_map27.jpg":"b21d7f5dd5","kaki_r7_map28.jpg":"476473eec3","kaki_r7_map29.jpg":"97c7ee7f61","kaki_r7_map30.jpg":"e0005dcc88","kaki_r7_map31.jpg":"204f2de615","kaki_r7_map32.jpg":"f006ba7103","kaki_r7_map33.jpg":"da58f9cff4","kaki_r7_map34.jpg":"1f584b7d6a","kaki_r7_map35.jpg":"11e1004bd8","kaki_r7_map36.jpg":"fd137ff9b8","kaki_r7_table01.jpg":"531ede38c5","kaki_r7_table02.jpg":"0e77123fca","kaki_r8_map01.jpg":"a57f501a98","kaki_r8_map02.jpg":"b06073e9aa","kaki_r8_map03.jpg":"5c8daedeab","kaki_r8_map04.jpg":"10a7bdd03d","kaki_r8_map05.jpg":"4fb5437d44","kaki_r8_map06.jpg":"76a72a9043","kaki_r8_map07.jpg":"77cc3b1bbc","kaki_r8_map08.jpg":"5c8d0a406b","kaki_r8_map09.jpg":"4ab8d8bf9c","kaki_r8_map10.jpg":"005ce58bdc","kaki_r8_map11.jpg":"8c83802060","kaki_r8_map12.jpg":"a5781f5932","kaki_r8_map13.jpg":"f3dcb0128c","kaki_r8_map14.jpg":"40a712cf1f","kaki_r8_map15.jpg":"79a9d6288f","kaki_r8_map16.jpg":"104361951c","kaki_r8_map17.jpg":"e43f6d31b7","kaki_r8_map18.jpg":"c67dd6cb83","kaki_r8_map19.jpg":"48159eea09","kaki_r8_map20.jpg":"023d3f8a9d","kaki_r8_map21.jpg":"03f3be5685","kaki_r8_map22.jpg":"77fe732dea","kaki_r8_map23.jpg":"e005abbe6c","kaki_r8_map24.jpg":"b25880e6c5","kaki_r8_map25.jpg":"7e313cd421","kaki_r8_map26.jpg":"def354dfdd","kaki_r8_map27.jpg":"449858def5","kaki_r8_map28.jpg":"bb9f08441a","kaki_r8_map29.jpg":"472c09aa53","kaki_r8_map30.jpg":"35be560792","kaki_r8_map31.jpg":"6cbd996f24","kaki_r8_map32.jpg":"60af73c7f5","kaki_r8_map33.jpg":"b194bc8ead","kaki_r8_map34.jpg":"cbc7c209db","kaki_r8_map35.jpg":"1de93906c5","kaki_r8_map36.jpg":"6ba8cf6d3b","kaki_r8_map37.jpg":"07aeb406af","kaki_r8_map38.jpg":"bee7eebc38","kaki_r8_map39.jpg":"45f22df6b1","kaki_r8_map40.jpg":"9e3f4196d2","kaki_r8_map41.jpg":"f1ce465720","kaki_r8_map42.jpg":"0551ccd81c","kaki_r8_map43.jpg":"82000f70d1","kaki_r8_map44.jpg":"2b88f0190b","kaki_r8_map45.jpg":"35ee95a764","kaki_r8_map46.jpg":"dd721e219c","kaki_r8_map47.jpg":"a465f218c2","kaki_r8_map48.jpg":"dcdc8a4d37","kaki_r8_map49.jpg":"388b475050","kaki_r8_map50.jpg":"4153c12b69","kaki_r8_map51.jpg":"aa826973da","kaki_r8_map52.jpg":"40fa851678","kaki_r8_map53.jpg":"181212ead1","kaki_r8_map54.jpg":"7c5a4a90c3","kaki_r8_map55.jpg":"488f98a461","kaki_r8_map56.jpg":"95df737037","kaki_r8_map57.jpg":"92d00cfd17","kaki_r8_map58.jpg":"6e49210e3e","r1_01.jpg":"4a6380da93","r1_02.jpg":"da23c3400c","r1_03.jpg":"7eddc7aa20","r1_04.jpg":"dbd948bc4f","r1_05.jpg":"435f86d82f","r1_06.jpg":"f09fdec1b9","r1_shinrin.jpg":"a750740d7f","r2_01.jpg":"3b40218424","r2_02.jpg":"387da36abc","r2_03.jpg":"e1febb3ca4","r2_04.jpg":"95132e77ec","r2_05.jpg":"0b08a836a5","r2_06.jpg":"0213ccc6d0","r2_07.jpg":"87baf0940a","r2_08.jpg":"07e455253d","r2_09.jpg":"42792edd75","r2_10.jpg":"42792edd75","r2_11.jpg":"42792edd75","r2_12.jpg":"4f2c45c956","r2_13.jpg":"4f2c45c956","r2_14.jpg":"4f2c45c956","r2_15.jpg":"52e855ee49","r2_16.jpg":"52e855ee49","r2_17.jpg":"52e855ee49","r2_18.jpg":"440bf4b31f","r2_19.jpg":"440bf4b31f","r2_20.jpg":"535707c4eb","r2_21.jpg":"535707c4eb","r2_22.jpg":"535707c4eb","r2_23.jpg":"535707c4eb","r2_24.jpg":"535707c4eb","r2_25.jpg":"535707c4eb","r2_26.jpg":"2dc94c771d","r2_27.jpg":"2dc94c771d","r2_28.jpg":"2dc94c771d","r2_29.jpg":"2dc94c771d","r2_30.jpg":"a6433ef6c0","r2_31.jpg":"a6433ef6c0","r2_32.jpg":"a6433ef6c0","r2_33.jpg":"a6433ef6c0","r2_34.jpg":"8d16d4ac64","r2_35.jpg":"8d16d4ac64","r2_36.jpg":"8d16d4ac64","r2_37.jpg":"8d16d4ac64","r2_38.jpg":"91f1c5bca5","r2_39.jpg":"b60adbd1c3","r2_40.jpg":"c82ed30fab","r3_chuuwa.jpg":"803f88484e","r3_seishitsu.jpg":"6584946c1b","r3_shijiyaku.jpg":"9b319c7d88","r3_yomi21.jpg":"b2ad009491","r3_yomi24.jpg":"d6fc3d99b8","r3_yomi25.jpg":"aa0903b0ab","r3_yomi27.jpg":"8dc3d4a3a9","r3_yomi36.jpg":"595c040e9f","r3k_1a.jpg":"55441f3d9f","r3k_1b.jpg":"1356de67e3","r3k_2.jpg":"3105353be2","r3k_3.jpg":"4f041ffa22","r3r_3.jpg":"10cadd705b","r3w_2.jpg":"282e87ba1b","r3w_3.jpg":"b2770557c1","r3y_5ans.jpg":"e4645e89b4","r4_01.jpg":"393de5eca5","r4_02.jpg":"40d9b4e0f2","r4_03.jpg":"5b2d21540e","r4_04.jpg":"947f21bcb2","r4k_1.jpg":"90d74e5d01","r4k_2.jpg":"cc3c2e4caa","r4r_1.jpg":"4798d0b4ce","r4r_2.jpg":"7f98882f2f","r4r_3.jpg":"583c14ef86","r4r_4.jpg":"d02ddf1cd0","r4w_1a.jpg":"b6bf2c20dd","r4w_1b.jpg":"64b2ae8256","r4w_2.jpg":"ba6aa9c69c","r4w_3.jpg":"b838901256","r5u13_01.jpg":"8a69c689ae","r5u13_02.jpg":"e52d50ee0d","r5u13_03.jpg":"8b6aae14a3","r5u13_04.jpg":"c0812ddc66","r5u13_05.jpg":"a2ffcc22da","r5u13_06.jpg":"41b8282bc6","r5u13_07.jpg":"a42085c269","r5u13_08.jpg":"7ff9dfa5c5","r6_01.jpg":"32ff3016d8","r6_02.jpg":"3c73527dd8","r6_03.jpg":"a444385107","r6_04.jpg":"a4dfdac612","r6_05.jpg":"b5f6b9f6a3","r6_06.jpg":"1a7c249e0f","r6_07.jpg":"389ba3d7b8","r6_08.jpg":"54e693e4b7","r6_09.jpg":"b02381d63b","r6_10.jpg":"da46bca31a","r6_11.jpg":"9259db1350","r6_12.jpg":"14c449020d","r6_13.jpg":"0577c1be67","r6_14.jpg":"79530fa540","r6_15.jpg":"dcf990eb89","r6_16.jpg":"d5a37d0bce","r6_17.jpg":"cbeac19169","r6k_1.jpg":"0c5793f6c1","r6k_2.jpg":"7cc5f04102","r6k_2b.jpg":"19f68c1767","r6k_3.jpg":"6b57f40878","r6k_4.jpg":"6eba853e20","r6p_01.jpg":"e16dfbac90","r6p_02.jpg":"9a335bea93","r6p_03.jpg":"9ed60c3d70","r6p_04.jpg":"ae5944a085","r6p_05.jpg":"b6a1836a78","r6p_06.jpg":"acb7478bd6","r6p_07.jpg":"a4c8c8dd0d","r6r_1.jpg":"4606457fc7","r6r_1b.jpg":"dafd16e516","r6r_2.jpg":"73bd9e9cc4","r6r_2b.jpg":"ce235b797a","r6r_2c.jpg":"3638d4d780","r6r_3.jpg":"8bc4c35ba9","r6r_3ans.jpg":"c729ca8dc1","r6r_4.jpg":"1a97fe9f9a","r6r_4b.jpg":"e1f0d07003","r6r_4c.jpg":"606d8620bb","r6r_5.jpg":"83747b014d","r7_01.jpg":"466ea22251","r7_02.jpg":"84ef6e008b","r7_03.jpg":"3583685d2a","r7_04.jpg":"a49dfe47bb","r7_05.jpg":"8357813f22","r7_06.jpg":"1e30160b9f","r7_07.jpg":"fec15a5ddd","r7_08.jpg":"5f8a1be38a","r7_10.jpg":"01bd20bac0","r7k_2.jpg":"c3e5b1fdc4","r7k_2b.jpg":"b4937893d8","r7k_3.jpg":"dfb199cdc1","r7k_4.jpg":"46545faf0d","r7r_1.jpg":"6de7fd0a8e","r7r_1b.jpg":"ed991d90d3","r7r_1c.jpg":"235b1d340f","r7r_2.jpg":"807cc07178","r7r_3.jpg":"9541daa1d1","r7r_5c.jpg":"bad6e5885d","r7y_1.jpg":"c647deffec","r8_05.jpg":"997a3b7635","r8_06.jpg":"b56d871128","r8_07.jpg":"5bb801877e","r8_10.jpg":"ac484d0958","r8_11.jpg":"174c916ad6","r8_12.jpg":"3e8313d3ab","r8_13.jpg":"f2f5f12b44","r8_14.jpg":"de0761c890","r8_15.jpg":"955040e2d6","r8_16.jpg":"17e5a0bb41","r8_17.jpg":"fe5825e0da","r8_18.jpg":"5ad51c980d","r8k_1.jpg":"a7e3225a1e","r8k_2.jpg":"2d8935c26a","r8k_3.jpg":"fea0c57403","r8k_4.jpg":"101c437443","r8r_1.jpg":"781eb27ca1","r8r_1b.jpg":"b123b7d86d","r8r_1c.jpg":"eb02922d34","r8r_2.jpg":"eb632645d4","r8r_2c.jpg":"d7e9c8d38d","r8r_3.jpg":"fb200207c9","r8r_4.jpg":"cf5f75eccf","r8r_5.jpg":"4876ee8eeb","r8r_5b.jpg":"7799e66960","r8r_5c.jpg":"6bd6e2bad1","r8y_1.jpg":"5a55076e7d","r8y_2.jpg":"ef35951bec","r8y_3.jpg":"b95a28fa6d","r9_01.jpg":"ef3eeb19d5","r9_02.jpg":"75ffd6c347","r9_03.jpg":"e6ae1b2a1c","r9_04.jpg":"ae3ca3e752","r9_05.jpg":"d037fd4536","r9_06.jpg":"4837b59107","r9_07.jpg":"3b27c8bb15","r9_08.jpg":"d8f45dbe17","r9_09.jpg":"597d1b0423","r9d_01.jpg":"db4cc4c881","r9k_1.jpg":"560bbb6301","r9k_1b.jpg":"62cbe10e38","r9k_2.jpg":"b7467838ca","r9k_3.jpg":"8716d534ac","r9r_1.jpg":"6856a4e449","r9r_1b.jpg":"5cebd6dd8f","r9r_3.jpg":"f199288e40","r9r_4.jpg":"d91ea6189f","r9r_4b.jpg":"68486a883e","r9r_5.jpg":"e5553f71d3","組分け6_1_地図.png":"ec7b795c88","組分け6_1_絵.png":"56dddd3c07","組分け6_3_地図.png":"6488459456","組分け6_3_模式図.png":"5b845a6430"};
 const KINAI_IMAGES = ["kai6_01.jpg","kai6_03.jpg","kai6_04.jpg","kai6_05.jpg","kai6_06.jpg","kai6_07.jpg","kai6_08.jpg","kai6_09.jpg","kai7_01.jpg","kai7_02.jpg","kai7_03.jpg","kai7_04.jpg","kai7_05.jpg","kai7_06.jpg","kai7_07.jpg","kai7_08.jpg","kai7_09.jpg","kai8_01.jpg","kai8_02.jpg","kai8_03.jpg","kai8_04.jpg","kai8_05.jpg","kai8_06.jpg","kai8_07.jpg","kai8_08.jpg","kai8_09.jpg","kai8_11.jpg","kai8_13.jpg","kai8_14.jpg","r6_01.jpg","r6_02.jpg","r6_03.jpg","r6_04.jpg","r6_06.jpg","r6_07.jpg","r6_08.jpg","r6_09.jpg","r6_10.jpg","r6_11.jpg","r6_12.jpg","r6_13.jpg","r6_14.jpg","r6_15.jpg","r6_16.jpg","r6_17.jpg","r6k_1.jpg","r6k_2.jpg","r6k_2b.jpg","r6k_3.jpg","r6k_4.jpg","r6p_01.jpg","r6p_02.jpg","r6p_03.jpg","r6p_04.jpg","r6p_05.jpg","r6p_06.jpg","r6p_07.jpg","r6r_2.jpg","r6r_2b.jpg","r6r_2c.jpg","r6r_4.jpg","r6r_4b.jpg","r6r_4c.jpg","r7_01.jpg","r7_02.jpg","r7_03.jpg","r7_04.jpg","r7_05.jpg","r7_07.jpg","r7_08.jpg","r7_10.jpg","r7k_2.jpg","r7k_2b.jpg","r7k_3.jpg","r7k_4.jpg","r7r_1.jpg","r7r_1b.jpg","r7r_1c.jpg","r7r_2.jpg","r7r_3.jpg","r7y_1.jpg","r8_05.jpg","r8_06.jpg","r8_07.jpg","r8_10.jpg","r8_11.jpg","r8_12.jpg","r8_13.jpg","r8_16.jpg","r8_17.jpg","r8k_1.jpg","r8k_2.jpg","r8k_3.jpg","r8k_4.jpg","r8r_1.jpg","r8r_1b.jpg","r8r_1c.jpg","r8r_2.jpg","r8r_2c.jpg","r8r_3.jpg","r8r_4.jpg","r8r_5.jpg","r8y_1.jpg","r8y_2.jpg","r8y_3.jpg","r9_01.jpg","r9_02.jpg","r9_03.jpg","r9_04.jpg","r9_05.jpg","r9_06.jpg","r9_07.jpg","r9_08.jpg","r9_09.jpg","r9k_1.jpg","r9k_1b.jpg","r9k_2.jpg","r9k_3.jpg","r9r_1.jpg","r9r_1b.jpg","r9r_3.jpg","r9r_4.jpg"];
 // ==BUILD END==
 

diff --git a/daimon_data.js b/daimon_data.js
@@ -4588,4 +4588,4 @@ const DAIMON_DATA = [
   "unit": "ロング編.組分け第6回"
  }
 ];
-const DAIMON_IMG_SIZES = {"kai6_05.jpg": [770, 513], "kai6_06.jpg": [675, 475], "kai6_07.jpg": [777, 1851], "kai7_05.jpg": [349, 563], "kai7_06.jpg": [704, 448], "kai7_07.jpg": [835, 549], "kai8_04.jpg": [671, 496], "kai8_05.jpg": [855, 830], "kai8_06.jpg": [651, 705], "r3_yomi24.jpg": [1404, 382], "r3_yomi25.jpg": [1170, 1095], "r3_yomi36.jpg": [780, 600], "r3k_1a.jpg": [409, 574], "r3k_1b.jpg": [1001, 504], "r3k_2.jpg": [861, 522], "r3k_3.jpg": [818, 548], "r3r_3.jpg": [1404, 339], "r3w_2.jpg": [1404, 489], "r3w_3.jpg": [1115, 690], "r3y_5ans.jpg": [729, 532], "r4k_1.jpg": [769, 1113], "r4k_2.jpg": [592, 1210], "r4r_1.jpg": [901, 1295], "r4r_2.jpg": [1010, 409], "r4r_3.jpg": [922, 912], "r4r_4.jpg": [1404, 1165], "r4w_1a.jpg": [620, 840], "r4w_1b.jpg": [325, 420], "r4w_2.jpg": [1404, 344], "r4w_3.jpg": [1404, 411], "r6k_1.jpg": [723, 628], "r6k_2.jpg": [477, 587], "r6k_2b.jpg": [1800, 368], "r6k_3.jpg": [478, 852], "r6k_4.jpg": [600, 906], "r6r_1.jpg": [1691, 518], "r6r_1b.jpg": [886, 328], "r6r_2.jpg": [800, 1228], "r6r_2b.jpg": [573, 741], "r6r_2c.jpg": [484, 586], "r6r_3.jpg": [689, 648], "r6r_3ans.jpg": [561, 443], "r6r_4.jpg": [586, 525], "r6r_4b.jpg": [409, 510], "r6r_4c.jpg": [736, 327], "r6r_5.jpg": [505, 866], "r7k_2.jpg": [345, 518], "r7k_2b.jpg": [990, 360], "r7k_3.jpg": [1260, 660], "r7k_4.jpg": [615, 622], "r7r_1.jpg": [270, 540], "r7r_1b.jpg": [435, 567], "r7r_1c.jpg": [375, 540], "r7r_2.jpg": [682, 548], "r7r_3.jpg": [2123, 765], "r7r_5c.jpg": [2025, 931], "r7y_1.jpg": [660, 750], "r8k_1.jpg": [832, 562], "r8k_2.jpg": [1957, 398], "r8k_3.jpg": [832, 465], "r8k_4.jpg": [623, 776], "r8r_1.jpg": [2100, 600], "r8r_1b.jpg": [1305, 630], "r8r_1c.jpg": [907, 275], "r8r_2.jpg": [2002, 1057], "r8r_2c.jpg": [2002, 372], "r8r_3.jpg": [1215, 555], "r8r_4.jpg": [630, 1583], "r8r_5.jpg": [2032, 944], "r8r_5b.jpg": [1320, 360], "r8r_5c.jpg": [338, 390], "r8y_1.jpg": [1268, 803], "r8y_2.jpg": [442, 501], "r8y_3.jpg": [510, 315], "r9k_1.jpg": [401, 284], "r9k_1b.jpg": [379, 313], "r9k_2.jpg": [378, 244], "r9k_3.jpg": [635, 516], "r9r_1.jpg": [1016, 349], "r9r_1b.jpg": [336, 349], "r9r_3.jpg": [336, 282], "r9r_4.jpg": [1055, 412], "r9r_4b.jpg": [1231, 432], "r9r_5.jpg": [807, 638], "組分け6_1_地図.png": [878, 790], "組分け6_1_絵.png": [1690, 1346], "組分け6_3_地図.png": [800, 868], "組分け6_3_模式図.png": [1945, 412]};
+const DAIMON_IMG_SIZES = {"kai6_05.jpg": [770, 513], "kai6_06.jpg": [675, 475], "kai6_07.jpg": [777, 1851], "kai7_05.jpg": [349, 563], "kai7_06.jpg": [704, 448], "kai7_07.jpg": [835, 549], "kai8_04.jpg": [671, 496], "kai8_05.jpg": [855, 830], "kai8_06.jpg": [651, 705], "r3_yomi24.jpg": [1404, 382], "r3_yomi25.jpg": [1170, 1095], "r3_yomi36.jpg": [780, 600], "r3k_1a.jpg": [409, 574], "r3k_1b.jpg": [1001, 504], "r3k_2.jpg": [861, 522], "r3k_3.jpg": [818, 548], "r3r_3.jpg": [1404, 339], "r3w_2.jpg": [1404, 489], "r3w_3.jpg": [1115, 690], "r3y_5ans.jpg": [729, 532], "r4k_1.jpg": [769, 1113], "r4k_2.jpg": [592, 1210], "r4r_1.jpg": [901, 1295], "r4r_2.jpg": [1010, 409], "r4r_3.jpg": [922, 912], "r4r_4.jpg": [1404, 1165], "r4w_1a.jpg": [620, 840], "r4w_1b.jpg": [325, 420], "r4w_2.jpg": [1404, 344], "r4w_3.jpg": [1404, 411], "r6k_1.jpg": [723, 628], "r6k_2.jpg": [477, 587], "r6k_2b.jpg": [1800, 368], "r6k_3.jpg": [478, 852], "r6k_4.jpg": [600, 906], "r6r_1.jpg": [1691, 518], "r6r_1b.jpg": [886, 328], "r6r_2.jpg": [800, 1228], "r6r_2b.jpg": [573, 741], "r6r_2c.jpg": [484, 586], "r6r_3.jpg": [689, 648], "r6r_3ans.jpg": [561, 443], "r6r_4.jpg": [586, 525], "r6r_4b.jpg": [409, 510], "r6r_4c.jpg": [736, 327], "r6r_5.jpg": [505, 866], "r7k_2.jpg": [345, 518], "r7k_2b.jpg": [990, 360], "r7k_3.jpg": [1260, 660], "r7k_4.jpg": [615, 622], "r7r_1.jpg": [270, 540], "r7r_1b.jpg": [435, 567], "r7r_1c.jpg": [375, 540], "r7r_2.jpg": [682, 548], "r7r_3.jpg": [2123, 765], "r7r_5c.jpg": [2025, 931], "r7y_1.jpg": [660, 750], "r8k_1.jpg": [832, 562], "r8k_2.jpg": [1957, 398], "r8k_3.jpg": [832, 465], "r8k_4.jpg": [623, 776], "r8r_1.jpg": [2100, 600], "r8r_1b.jpg": [1305, 630], "r8r_1c.jpg": [907, 275], "r8r_2.jpg": [2002, 1057], "r8r_2c.jpg": [2002, 372], "r8r_3.jpg": [1215, 555], "r8r_4.jpg": [630, 1583], "r8r_5.jpg": [2032, 944], "r8r_5b.jpg": [1320, 360], "r8r_5c.jpg": [338, 390], "r8y_1.jpg": [1268, 803], "r8y_2.jpg": [442, 501], "r8y_3.jpg": [510, 315], "r9k_1.jpg": [401, 284], "r9k_1b.jpg": [379, 313], "r9k_2.jpg": [378, 244], "r9k_3.jpg": [635, 516], "r9r_1.jpg": [1016, 349], "r9r_1b.jpg": [336, 349], "r9r_3.jpg": [336, 282], "r9r_4.jpg": [1116, 412], "r9r_4b.jpg": [1231, 432], "r9r_5.jpg": [807, 638], "組分け6_1_地図.png": [878, 790], "組分け6_1_絵.png": [1690, 1346], "組分け6_3_地図.png": [800, 868], "組分け6_3_模式図.png": [1945, 412]};
